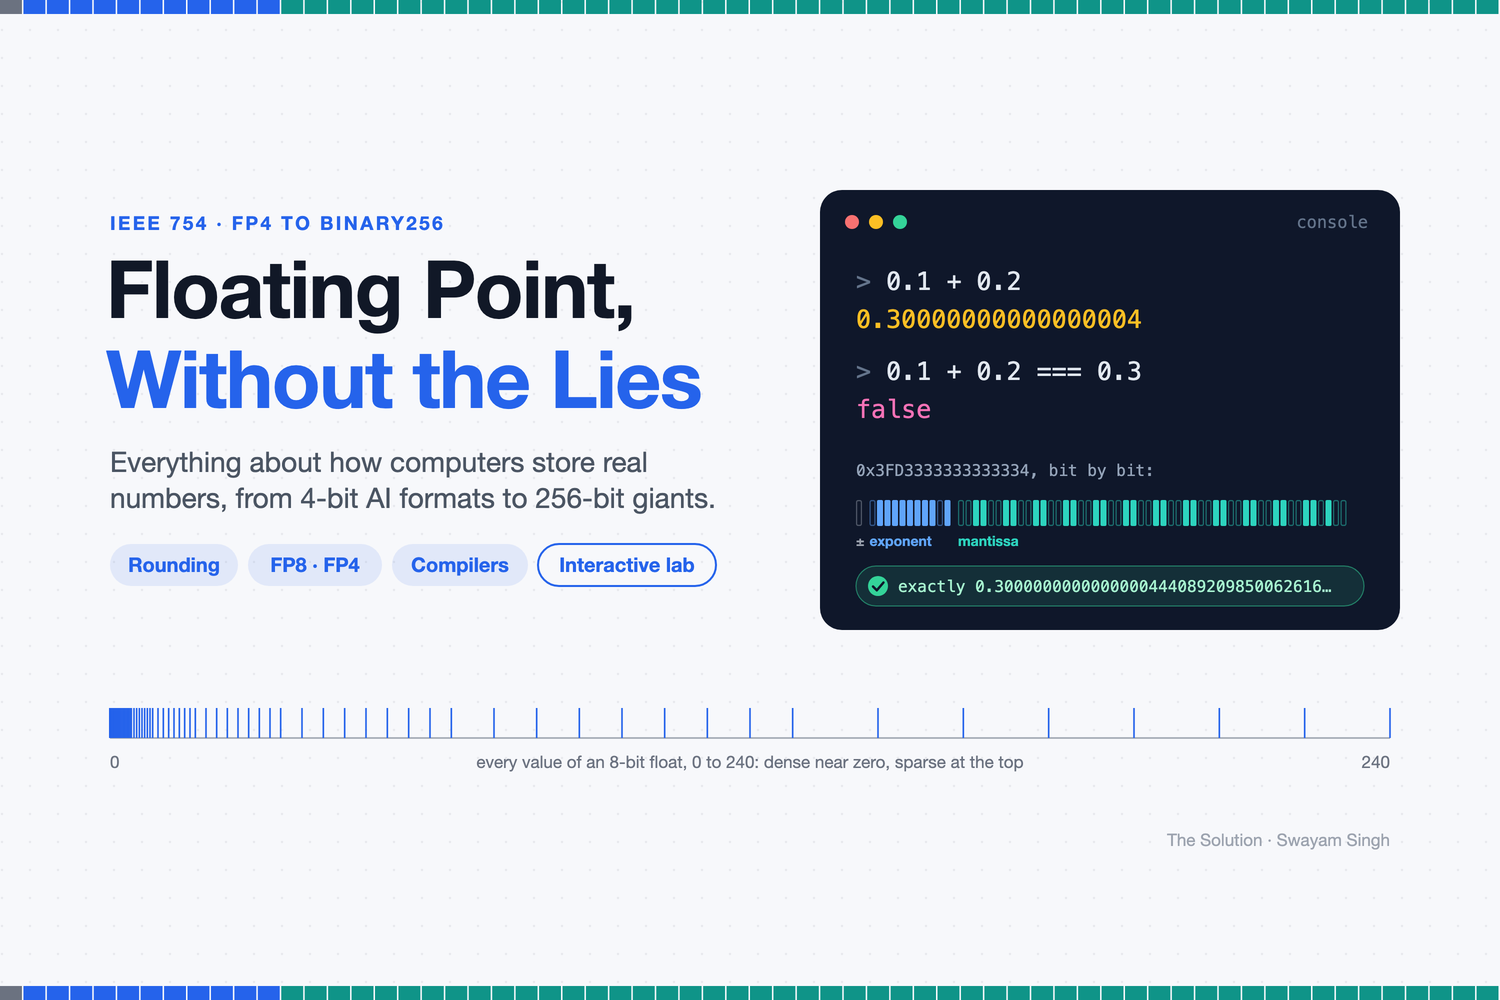
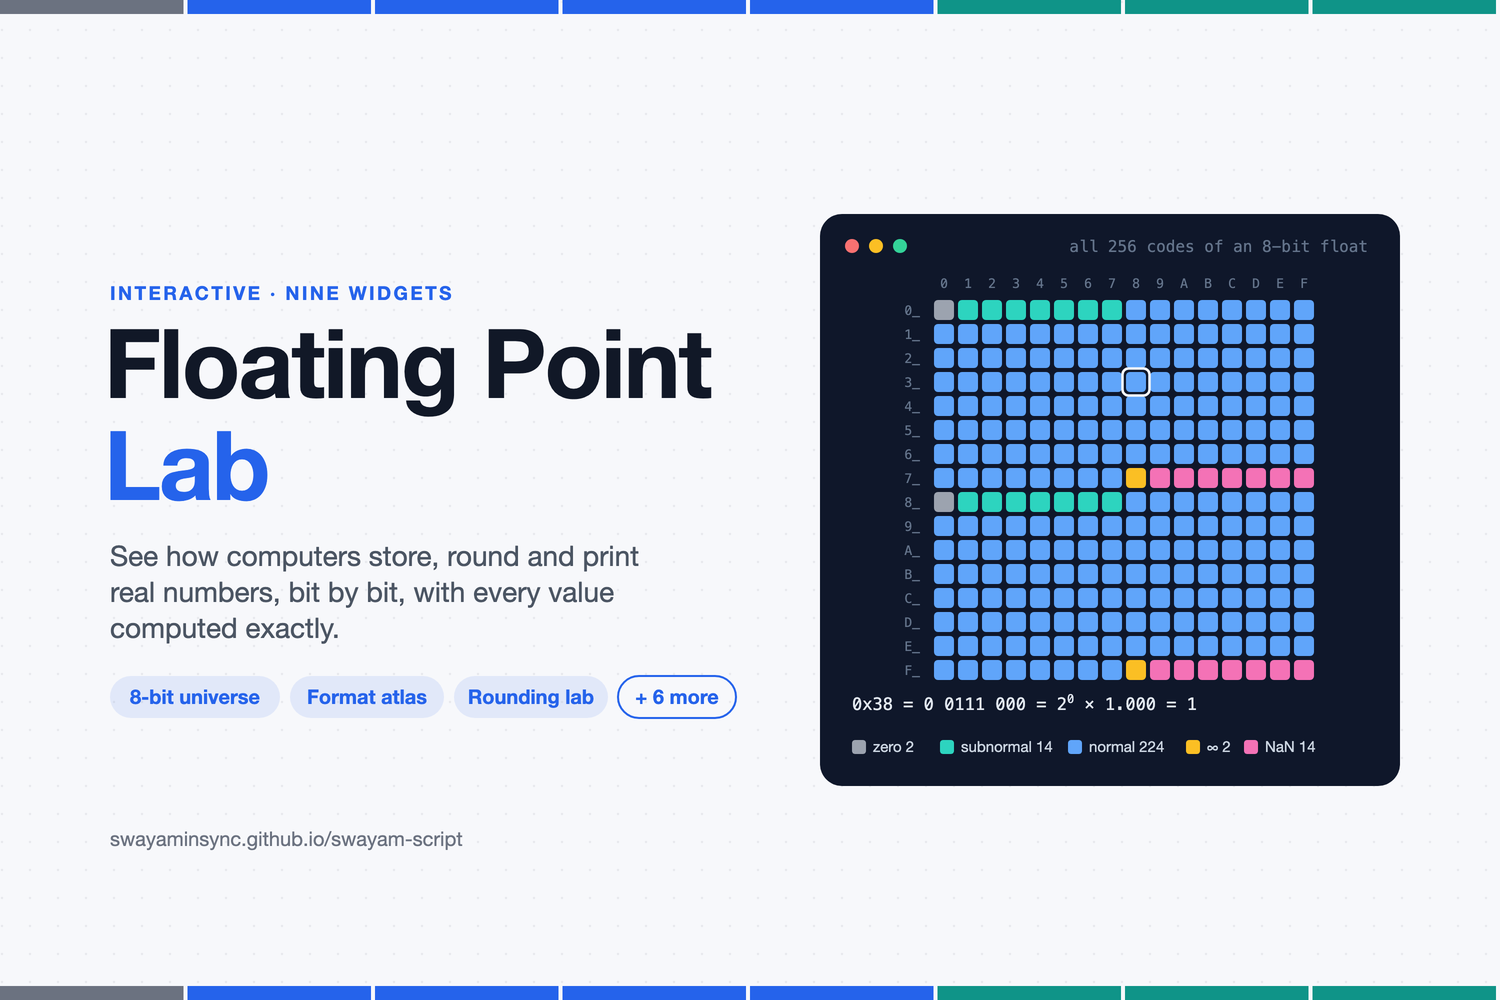
Built site for gh-pages

diff --git a/index.html b/index.html
@@ -389,7 +389,7 @@ window.Quarto = {
 
 <div class="quarto-listing quarto-listing-container-default" id="listing-listing">
 <div class="list quarto-listing-default">
-<div class="quarto-post image-right" data-index="0" data-categories="QyUyQiUyQiUyQ0Zvcm1hbCUyMFZlcmlmaWNhdGlvbg==" data-listing-date-sort="1792713600000" data-listing-file-modified-sort="1792835119962" data-listing-date-modified-sort="NaN" data-listing-reading-time-sort="14" data-listing-word-count-sort="2674">
+<div class="quarto-post image-right" data-index="0" data-categories="QyUyQiUyQiUyQ0Zvcm1hbCUyMFZlcmlmaWNhdGlvbg==" data-listing-date-sort="1792713600000" data-listing-file-modified-sort="1792836354298" data-listing-date-modified-sort="NaN" data-listing-reading-time-sort="14" data-listing-word-count-sort="2674">
 <div class="thumbnail"><a href="./posts/Where Should the Proof Live/index.html" class="no-external">
 
 <img loading="lazy" src="./posts/Where Should the Proof Live/assets/header.png" class="thumbnail-image">
@@ -428,10 +428,10 @@ Swayam Singh
 </a>
 </div>
 </div>
-<div class="quarto-post image-right" data-index="1" data-categories="RmxvYXRpbmctUG9pbnQlMkNOdW1lcmljcyUyQ0ludGVyYWN0aXZl" data-listing-date-sort="1792713600000" data-listing-file-modified-sort="1792835119963" data-listing-date-modified-sort="NaN" data-listing-reading-time-sort="4" data-listing-word-count-sort="696">
+<div class="quarto-post image-right" data-index="1" data-categories="RmxvYXRpbmctUG9pbnQlMkNOdW1lcmljcyUyQ0ludGVyYWN0aXZl" data-listing-date-sort="1792713600000" data-listing-file-modified-sort="1792836354299" data-listing-date-modified-sort="NaN" data-listing-reading-time-sort="4" data-listing-word-count-sort="696">
 <div class="thumbnail"><a href="./posts/floating-point-lab/index.html" class="no-external">
 
-<img loading="lazy" src="./posts/floating-point-lab/assets/header.png" class="thumbnail-image" alt="Floating Point, Without the Lies: 0.1 + 0.2 in a console with the 64 bits of its result, and every value of an 8-bit float on a number line">
+<img loading="lazy" src="./posts/floating-point-lab/assets/header.png" class="thumbnail-image" alt="Floating Point Lab: the map of all 256 codes of an 8-bit float, coloured by class (zero, subnormal, normal, infinity, NaN), with 0x38 = 1 highlighted">
 
 </a></div>
 <div class="body">
@@ -504,7 +504,7 @@ Swayam Singh
 </a>
 </div>
 </div>
-<div class="quarto-post image-right" data-index="3" data-categories="TWF0aGVtYXRpY3MlMkNvbmdvaW5n" data-listing-date-sort="1769385600000" data-listing-file-modified-sort="1792835119956" data-listing-date-modified-sort="NaN" data-listing-reading-time-sort="1" data-listing-word-count-sort="22">
+<div class="quarto-post image-right" data-index="3" data-categories="TWF0aGVtYXRpY3MlMkNvbmdvaW5n" data-listing-date-sort="1769385600000" data-listing-file-modified-sort="1792836354294" data-listing-date-modified-sort="NaN" data-listing-reading-time-sort="1" data-listing-word-count-sort="22">
 <div class="thumbnail"><a href="./posts/Descrete_Mathematics/index.html" class="no-external">
 
 <img loading="lazy" src="./posts/Descrete_Mathematics/assets/header.png" class="thumbnail-image">
@@ -547,7 +547,7 @@ Swayam Singh
 </a>
 </div>
 </div>
-<div class="quarto-post image-right" data-index="4" data-categories="QyUyQiUyQiUyQ09uZ29pbmc=" data-listing-date-sort="1764892800000" data-listing-file-modified-sort="1792835119938" data-listing-date-modified-sort="NaN" data-listing-reading-time-sort="7" data-listing-word-count-sort="1334">
+<div class="quarto-post image-right" data-index="4" data-categories="QyUyQiUyQiUyQ09uZ29pbmc=" data-listing-date-sort="1764892800000" data-listing-file-modified-sort="1792836354281" data-listing-date-modified-sort="NaN" data-listing-reading-time-sort="7" data-listing-word-count-sort="1334">
 <div class="thumbnail"><a href="./posts/C++ Tips/index.html" class="no-external">
 
 <img loading="lazy" src="./posts/C++ Tips/assets/header.png" class="thumbnail-image">
@@ -586,7 +586,7 @@ Swayam Singh
 </a>
 </div>
 </div>
-<div class="quarto-post image-right" data-index="5" data-categories="QyUyQiUyQiUyQ09uZ29pbmc=" data-listing-date-sort="1758240000000" data-listing-file-modified-sort="1792835119959" data-listing-date-modified-sort="NaN" data-listing-reading-time-sort="58" data-listing-word-count-sort="11511">
+<div class="quarto-post image-right" data-index="5" data-categories="QyUyQiUyQiUyQ09uZ29pbmc=" data-listing-date-sort="1758240000000" data-listing-file-modified-sort="1792836354296" data-listing-date-modified-sort="NaN" data-listing-reading-time-sort="58" data-listing-word-count-sort="11511">
 <div class="thumbnail"><a href="./posts/Effective C++/index.html" class="no-external">
 
 <img loading="lazy" src="./posts/Effective C++/assets/header.png" class="thumbnail-image">
@@ -625,7 +625,7 @@ Swayam Singh
 </a>
 </div>
 </div>
-<div class="quarto-post image-right" data-index="6" data-categories="Q1VEQQ==" data-listing-date-sort="1755216000000" data-listing-file-modified-sort="1792835119949" data-listing-date-modified-sort="NaN" data-listing-reading-time-sort="13" data-listing-word-count-sort="2508">
+<div class="quarto-post image-right" data-index="6" data-categories="Q1VEQQ==" data-listing-date-sort="1755216000000" data-listing-file-modified-sort="1792836354289" data-listing-date-modified-sort="NaN" data-listing-reading-time-sort="13" data-listing-word-count-sort="2508">
 <div class="thumbnail"><a href="./posts/Cooperative Groups/index.html" class="no-external">
 
 <img loading="lazy" src="./posts/Cooperative Groups/assets/header.png" class="thumbnail-image">
@@ -662,7 +662,7 @@ Swayam Singh
 </a>
 </div>
 </div>
-<div class="quarto-post image-right" data-index="7" data-categories="Q29tcGlsZXJzJTJDTExWTSUyQ29uZ29pbmc=" data-listing-date-sort="1748908800000" data-listing-file-modified-sort="1792835119933" data-listing-date-modified-sort="NaN" data-listing-reading-time-sort="9" data-listing-word-count-sort="1796">
+<div class="quarto-post image-right" data-index="7" data-categories="Q29tcGlsZXJzJTJDTExWTSUyQ29uZ29pbmc=" data-listing-date-sort="1748908800000" data-listing-file-modified-sort="1792836354277" data-listing-date-modified-sort="NaN" data-listing-reading-time-sort="9" data-listing-word-count-sort="1796">
 <div class="thumbnail"><a href="./posts/A Hitchhikers Guide to LLVM/index.html" class="no-external">
 
 <img loading="lazy" src="./posts/A Hitchhikers Guide to LLVM/images/cover.png" class="thumbnail-image">
@@ -703,7 +703,7 @@ Swayam Singh
 </a>
 </div>
 </div>
-<div class="quarto-post image-right" data-index="8" data-categories="TUwtVGhlb3J5JTJDVHJhbnNmb3JtZXJz" data-listing-date-sort="1742515200000" data-listing-file-modified-sort="1792835119957" data-listing-date-modified-sort="NaN" data-listing-reading-time-sort="9" data-listing-word-count-sort="1625">
+<div class="quarto-post image-right" data-index="8" data-categories="TUwtVGhlb3J5JTJDVHJhbnNmb3JtZXJz" data-listing-date-sort="1742515200000" data-listing-file-modified-sort="1792836354295" data-listing-date-modified-sort="NaN" data-listing-reading-time-sort="9" data-listing-word-count-sort="1625">
 <div class="thumbnail"><a href="./posts/DyT Analysis/index.html" class="no-external">
 
 <img loading="lazy" src="./posts/DyT Analysis/header.jpg" class="thumbnail-image">
@@ -742,7 +742,7 @@ Swayam Singh
 </a>
 </div>
 </div>
-<div class="quarto-post image-right" data-index="9" data-categories="TUwlMkNUaGVvcnklMkNCb29rJTJDb25nb2luZw==" data-listing-date-sort="1741996800000" data-listing-file-modified-sort="1792835119961" data-listing-date-modified-sort="NaN" data-listing-reading-time-sort="1" data-listing-word-count-sort="24">
+<div class="quarto-post image-right" data-index="9" data-categories="TUwlMkNUaGVvcnklMkNCb29rJTJDb25nb2luZw==" data-listing-date-sort="1741996800000" data-listing-file-modified-sort="1792836354298" data-listing-date-modified-sort="NaN" data-listing-reading-time-sort="1" data-listing-word-count-sort="24">
 <div class="thumbnail"><a href="./posts/The Transparent Algorithm/index.html" class="no-external">
 
 <img loading="lazy" src="./posts/The Transparent Algorithm/images/cover.png" class="thumbnail-image">
@@ -789,7 +789,7 @@ Swayam Singh
 </a>
 </div>
 </div>
-<div class="quarto-post image-right" data-index="10" data-categories="QyUyQiUyQiUyQ0Jvb2s=" data-listing-date-sort="1739059200000" data-listing-file-modified-sort="1792835119939" data-listing-date-modified-sort="NaN" data-listing-reading-time-sort="1" data-listing-word-count-sort="5">
+<div class="quarto-post image-right" data-index="10" data-categories="QyUyQiUyQiUyQ0Jvb2s=" data-listing-date-sort="1739059200000" data-listing-file-modified-sort="1792836354282" data-listing-date-modified-sort="NaN" data-listing-reading-time-sort="1" data-listing-word-count-sort="5">
 <div class="thumbnail"><a href="./posts/Concurrent C++, A Practical Guide/index.html" class="no-external">
 
 <img loading="lazy" src="./posts/Concurrent C++, A Practical Guide/img.jpeg" class="thumbnail-image">
@@ -828,7 +828,7 @@ Swayam Singh
 </a>
 </div>
 </div>
-<div class="quarto-post image-right" data-index="11" data-categories="TUwlMkNJbmZvcm1hdGlvbi1UaGVvcnk=" data-listing-date-sort="1736380800000" data-listing-file-modified-sort="1792835119959" data-listing-date-modified-sort="NaN" data-listing-reading-time-sort="14" data-listing-word-count-sort="2650">
+<div class="quarto-post image-right" data-index="11" data-categories="TUwlMkNJbmZvcm1hdGlvbi1UaGVvcnk=" data-listing-date-sort="1736380800000" data-listing-file-modified-sort="1792836354296" data-listing-date-modified-sort="NaN" data-listing-reading-time-sort="14" data-listing-word-count-sort="2650">
 <div class="thumbnail"><a href="./posts/Information-Theory-In-ML/index.html" class="no-external">
 
 <img loading="lazy" src="./posts/Information-Theory-In-ML/intro.jpg" class="thumbnail-image">
@@ -867,7 +867,7 @@ Swayam Singh
 </a>
 </div>
 </div>
-<div class="quarto-post image-right" data-index="12" data-categories="TExN" data-listing-date-sort="1728518400000" data-listing-file-modified-sort="1792835119961" data-listing-date-modified-sort="NaN" data-listing-reading-time-sort="3" data-listing-word-count-sort="595">
+<div class="quarto-post image-right" data-index="12" data-categories="TExN" data-listing-date-sort="1728518400000" data-listing-file-modified-sort="1792836354298" data-listing-date-modified-sort="NaN" data-listing-reading-time-sort="3" data-listing-word-count-sort="595">
 <div class="thumbnail"><a href="./posts/Understanding Perplexity/index.html" class="no-external">
 
 <img loading="lazy" src="./posts/Understanding Perplexity/meme.jpg" class="thumbnail-image">
@@ -904,7 +904,7 @@ Swayam Singh
 </a>
 </div>
 </div>
-<div class="quarto-post image-right" data-index="13" data-categories="TnVtUHklMkNPcGVuLVNvdXJjZQ==" data-listing-date-sort="1727654400000" data-listing-file-modified-sort="1792835119960" data-listing-date-modified-sort="NaN" data-listing-reading-time-sort="1" data-listing-word-count-sort="5">
+<div class="quarto-post image-right" data-index="13" data-categories="TnVtUHklMkNPcGVuLVNvdXJjZQ==" data-listing-date-sort="1727654400000" data-listing-file-modified-sort="1792836354297" data-listing-date-modified-sort="NaN" data-listing-reading-time-sort="1" data-listing-word-count-sort="5">
 <div class="thumbnail"><a href="./posts/Numpy QuadDtype/index.html" class="no-external">
 
 <img loading="lazy" src="https://labs.quansight.org/_next/image?url=%2Fposts%2Fnumpy-quaddtype-blog%2Ffeature.png&amp;w=3840&amp;q=75" class="thumbnail-image">
@@ -943,7 +943,7 @@ Swayam Singh
 </a>
 </div>
 </div>
-<div class="quarto-post image-right" data-index="14" data-categories="TkxQJTJDVHJhbnNmb3JtZXJz" data-listing-date-sort="1697241600000" data-listing-file-modified-sort="1792835119960" data-listing-date-modified-sort="NaN" data-listing-reading-time-sort="9" data-listing-word-count-sort="1671">
+<div class="quarto-post image-right" data-index="14" data-categories="TkxQJTJDVHJhbnNmb3JtZXJz" data-listing-date-sort="1697241600000" data-listing-file-modified-sort="1792836354297" data-listing-date-modified-sort="NaN" data-listing-reading-time-sort="9" data-listing-word-count-sort="1671">
 <div class="thumbnail"><a href="./posts/Self-Attention Mimicking Gradient Descent/index.html" class="no-external">
 
 <p class="card-img-top"><img loading='lazy' src="posts/Self-Attention Mimicking Gradient Descent/section-image.png"  class="thumbnail-image card-img"/></p>

diff --git a/posts/floating-point-lab/index.html b/posts/floating-point-lab/index.html
@@ -89,7 +89,7 @@ ul.task-list li input[type="checkbox"] {
 <meta property="og:site_name" content="Swayam’s Scripts">
 <meta property="og:image:height" content="1000">
 <meta property="og:image:width" content="1500">
-<meta property="og:image:alt" content="Floating Point, Without the Lies: 0.1 + 0.2 in a console with the 64 bits of its result, and every value of an 8-bit float on a number line">
+<meta property="og:image:alt" content="Floating Point Lab: the map of all 256 codes of an 8-bit float, coloured by class (zero, subnormal, normal, infinity, NaN), with 0x38 = 1 highlighted">
 </head>
 
 <body class="nav-fixed fullcontent quarto-light"><script id="quarto-html-before-body" type="application/javascript">
